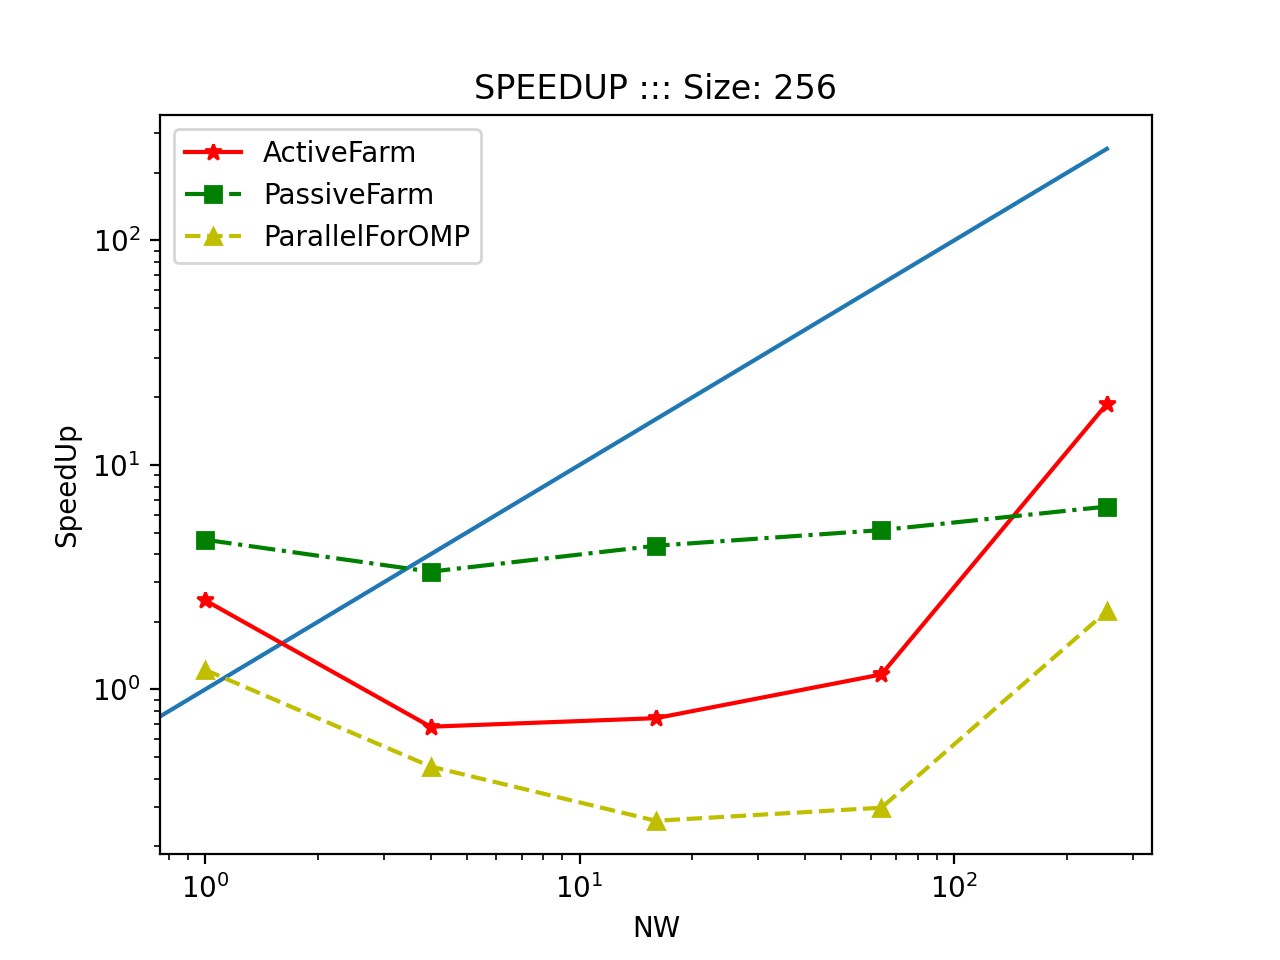
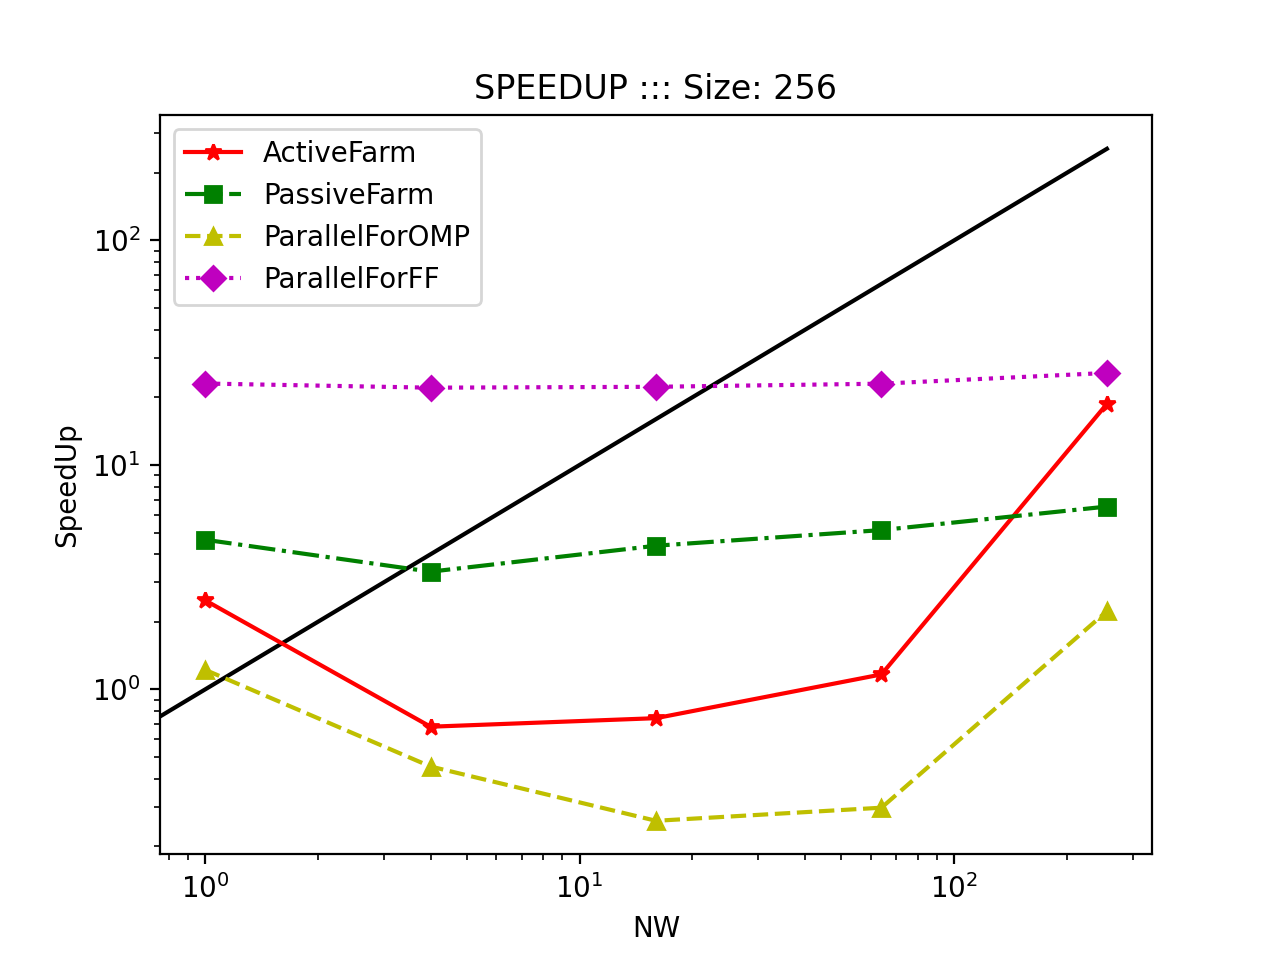
Results

diff --git a/Assignment/GameOfLife/results/data.py b/Assignment/GameOfLife/results/data.py
@@ -5,6 +5,7 @@ df0 = pd.read_csv("seq.csv")
 df1 = pd.read_csv("par_active.csv")
 df2 = pd.read_csv("par_passive.csv")
 df3 = pd.read_csv("par_omp.csv")
+df4 = pd.read_csv("par_ff.csv")
 
 
 # for nw in [4, 8, 16, 32, 64, 128, 256]:
@@ -15,6 +16,7 @@ seq = df0.groupby(['nw', 'rowcol']).mean().reset_index()
 par1 = df1.groupby(['nw', 'rowcol']).mean().reset_index()
 par2 = df2.groupby(['nw', 'rowcol']).mean().reset_index()
 par3 = df3.groupby(['nw', 'rowcol']).mean().reset_index()
+par4 = df4.groupby(['nw', 'rowcol']).mean().reset_index()
 
 
 for nw in [1, 4, 16, 64, 256]:
@@ -22,16 +24,18 @@ for nw in [1, 4, 16, 64, 256]:
     tmp1 = par1[(par1.nw == nw)]
     tmp2 = par2[(par2.nw == nw)]
     tmp3 = par3[(par3.nw == nw)]
-    a, = plt.plot(seq['rowcol'], seq['time'], 'o-b', label='Seq')
+    tmp4 = par4[(par4.nw == nw)]
+    a, = plt.plot(seq['rowcol'], seq['time'], 'o-k', label='Seq')
     b, = plt.plot(tmp1['rowcol'], tmp1['time'], '-*r', label='ActiveFarm')
     c, = plt.plot(tmp2['rowcol'], tmp2['time'], 's-.g', label='PassiveFarm')
     d, = plt.plot(tmp3['rowcol'], tmp3['time'], '^--y', label='ParallelForOMP')
+    e, = plt.plot(tmp4['rowcol'], tmp4['time'], ':Dm', label='ParallelForFF')
     plt.yscale('log')
     plt.xscale('log')
     plt.ylabel('Time')
     plt.xlabel('Size')
     plt.title("NW: " + str(nw))
-    plt.legend(handles=[a,b,c,d])
+    plt.legend(handles=[a,b,c,d,e])
     plt.show()
     fig.savefig('time_size' + str(nw) + '.png')
 
@@ -42,17 +46,21 @@ for col in [256, 1024, 4096, 16384]:
     tmp1 = par1[(par1.rowcol == col)]
     tmp2 = par2[(par2.rowcol == col)]
     tmp3 = par3[(par3.rowcol == col)]
-    # plt.plot(seq['rowcol'], seq['time'], 'o-b')
-    plt.plot([0, 256], [0, 256])
+    tmp4 = par4[(par4.rowcol == col)]
+
+
+    plt.plot([0, 256], [0, 256],'k')
     a, = plt.plot(tmp1['nw'], tmp1['time'].div(tseq), '-*r', label='ActiveFarm')
     b, = plt.plot(tmp2['nw'], tmp2['time'].div(tseq), 's-.g', label='PassiveFarm')
     c, = plt.plot(tmp3['nw'], tmp3['time'].div(tseq), '^--y', label='ParallelForOMP')
+    d, = plt.plot(tmp4['nw'], tmp4['time'].div(tseq), ':Dm', label='ParallelForFF')
+
     plt.yscale('log')
     plt.xscale('log')
     plt.ylabel('SpeedUp')
     plt.xlabel('NW')
     plt.title("SPEEDUP ::: Size: " + str(col))
-    plt.legend(handles=[a,b,c])
+    plt.legend(handles=[a,b,c,e])
     plt.show()
     fig.savefig('speedup' + str(col) + '.png')
 
@@ -61,22 +69,26 @@ for col in [256, 1024, 4096, 16384]:
     
     tt1 = par1[(par1.rowcol == col) & (par1.nw == 1)]['time'].iloc[0]
     tt2 = par2[(par2.rowcol == col) & (par2.nw == 1)]['time'].iloc[0]
-    tt3 = par1[(par3.rowcol == col) & (par3.nw == 1)]['time'].iloc[0]
+    tt3 = par3[(par3.rowcol == col) & (par3.nw == 1)]['time'].iloc[0]
+    tt4 = par4[(par4.rowcol == col) & (par4.nw == 1)]['time'].iloc[0]
 
     tmp1 = par1[(par1.rowcol == col)]
     tmp2 = par2[(par2.rowcol == col)]
     tmp3 = par3[(par3.rowcol == col)]
-    # plt.plot(seq['rowcol'], seq['time'], 'o-b')
-    plt.plot([0, 256], [0, 256])
+    tmp4 = par4[(par4.rowcol == col)]
+
+    plt.plot([0, 256], [0, 256],'k')
     a, = plt.plot(tmp1['nw'], tmp1['time'].div(tt1), '-*r', label='ActiveFarm')
     b, = plt.plot(tmp2['nw'], tmp2['time'].div(tt2), 's-.g', label='PassiveFarm')
     c, = plt.plot(tmp3['nw'], tmp3['time'].div(tt3), '^--y', label='ParallelForOMP')
+    d, = plt.plot(tmp4['nw'], tmp4['time'].div(tt4), ':Dm', label='ParallelForFF')
+
     plt.yscale('log')
     plt.xscale('log')
     # plt.ylabel('SpeedUp')
     plt.xlabel('NW')
     plt.title("SCALABILITY ::: Size: " + str(col))
-    plt.legend(handles=[a,b,c])
+    plt.legend(handles=[a,b,c,d])
     plt.show()
     fig.savefig('scalability' + str(col) + '.png')
 
